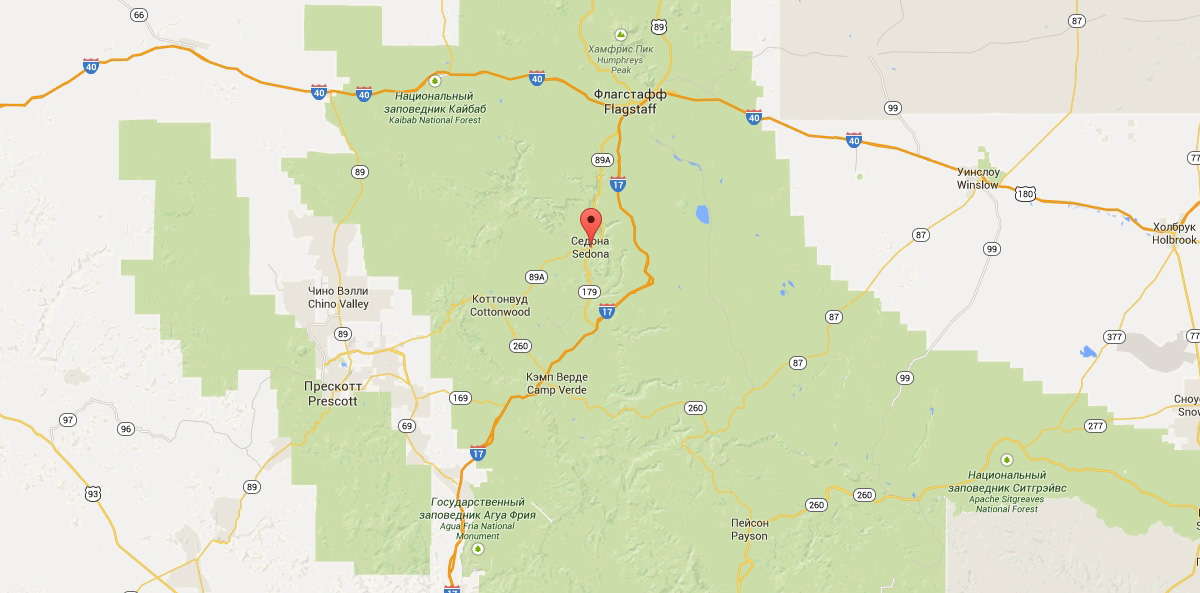
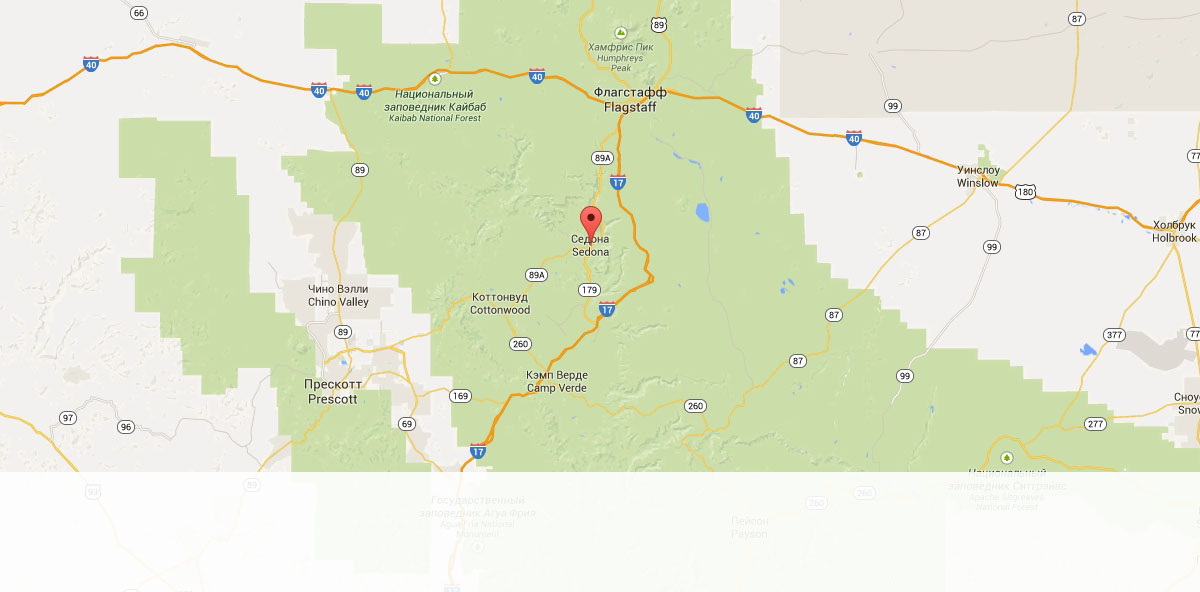
Работа над картой и фильтром.

diff --git a/css/style.css b/css/style.css
@@ -32,7 +32,14 @@ a {
 }
 
 .visually-hidden {
-	visibility: hidden;
+	position: absolute;
+	width: 1px;
+	height: 1px;
+	margin: -1px;
+	border: 0;
+	padding: 0;
+	clip: rect(0 0 0 0);
+	overflow: hidden;
 }
 
 .page-wrapper {
@@ -446,6 +453,8 @@ p.input-half-wrap {
 .hotel-filter-list,
 .hotels-list {
 	list-style: none;
+	margin: 0;
+	padding: 0;
 }
 
 .hotel-item-rating {
@@ -501,7 +510,7 @@ h2.visually-hidden {
 .hotel-filter-form {
 	display: flex;
 	flex-wrap: wrap;
-	padding: 29px 72px 4px;
+	padding: 27px 72px 8px;
 	text-align: left;
 }
 
@@ -512,20 +521,18 @@ padding: 0;
 width: 250px;
 }
 
+.hotel-filter-group input {
+	display: none;
+}
+
 .hotel-filter-title {
 font-size: 16px;
 line-height: 21px;
 color: #ffffff;
-margin: 0;
+margin-bottom: -1px;
 padding: 0;
 font-weight: 700;
-}
 
-.hotel-filter-cost {
-	margin: 0;
-	padding: 0;
-	border: 0;
-	margin-left: auto;
 }
 
 label {
@@ -537,8 +544,122 @@ label {
 	margin: 26px 0;
 }
 
-input {
-	display: none;
+/*----- Стоимость в сутки: -----*/
+.hotel-filter-cost {
+	padding: 0;
+	margin-left: auto;
+	border: 0;	
+	width: 330px;
+	
+	color: #ffffff;
+	text-transform: uppercase;
+}
+
+.filter-cost-title {
+	margin-bottom: 12px;
+	font-weight: 600;
+	font-size: 16px;
+    line-height: 21px;
+}
+
+.prise-controls {
+	position: relative;
+	height: 35px;
+	margin-bottom: 20px;
+	border: 2px solid #ffffff;
+	border-radius: 2px;
+	font-size: 0;
+}
+
+.prise-controls label {
+	display: inline-block;
+	font-size: 14px;
+	line-height: 38px;
+	vertical-align: top;
+	padding: 0;
+	margin: 0;
+	cursor: pointer;
+}
+
+.prise-controls .min-prise,
+.prise-controls .max-prise {	
+	padding: 0 4px 0 68px;
+}
+
+.prise-controls input {
+	width: 50px;
+	margin: 0;
+	color: inherit;
+	font: inherit;
+	background: none;
+	border: none;
+}
+
+.prise-controls::after {
+	content: "";
+	position: absolute;
+	top: 50%;
+	left: 50%;
+	width: 3px;
+	height: 22px;
+	background: #ffffff;
+	transform: translate(-50%, -50%);
+}
+
+.range-control {
+	position: relative;
+	margin-bottom: 32px;
+}
+
+.scale {
+	height: 2px;
+	background: rgba(255, 255, 255, 0.3);
+}
+
+.bar {
+	width: 80%;
+	height: 2px;
+	background: #ffffff;
+}
+
+.range-toggle {
+	position: absolute;
+	top: -7px;
+	width: 4px;
+	height: 4px;
+	background: #ababab;
+	border: 8px solid #ffffff;
+	border-radius: 50%;
+	box-shadow: 0 2px 1px 0 rgba(0, 1, 1, 0.2);
+	cursor: pointer;
+}
+
+.range-toggle:hover {
+	background: #1c4f80;
+}
+
+.range-toggle-min {
+	left: 0;
+}
+
+.range-toggle-max {
+	left: 80%;
+}
+
+.hotel-filter-btn {
+	display: block;
+	margin: 0 auto;
+	padding: 6px 35px;
+
+	font-size: 14px;
+	line-height: 20px;
+	color: #ffffff;
+	text-transform: uppercase;
+
+	background: transparent;
+	border: 2px solid #ffffff;
+	border-radius: 2px;
+	cursor: pointer;
 }
 
 /*----- Сортировка -----*/
@@ -603,28 +724,28 @@ input {
 /*-----список отелей-----*/
 .hotels-list {
 	margin: 0;
-	padding: 14px 40px;
+	padding: 0px;
 	list-style: none;
 }
 
 .hotels-item {
 	display: flex;
 	flex-wrap: wrap;
-	padding: 17px 33px;
+	padding: 22px 72px;
 	border-bottom: 1px solid red;
 }
 
 .hotels-item-image {
-	margin-right: 30px;
-	padding: 5px;
+	padding-top: 7px;
 }
 
 .hotels-item-info {
 	text-align: left;
-	margin-left: 20px;
+	margin: 0 30px;
 	display: flex;
 	flex-wrap: wrap;
 	width: 239px;
+	align-items: center;
 }
 
 .hotels-item-title {

diff --git a/hotels.html b/hotels.html
@@ -60,8 +60,18 @@
 							</ul>					
 						</fieldset>
 						<fieldset class="hotel-filter-cost">
-							<legend for="slider" class="hotel-filter-title">Стоимость в сутки (р):</legend>			
-							<input type="range" min="0" max="50" name="range" value="0" step="2" id="slider">
+							<legend for="slider" class="filter-cost-title">Стоимость в сутки (р):</legend>
+							<div class="prise-controls">
+								<label class="min-prise">от <input type="text" name="min-prise" value="0"></label>
+								<label class="max-prise">до <input type="text" name="max-prise" value="3000"></label>
+							</div>
+							<div class="range-control">
+								<div class="scale">
+          							<div class="bar"></div>
+       							</div>
+       							<div class="range-toggle range-toggle-min"></div>
+                                <div class="range-toggle range-toggle-max"></div>
+							</div>							
 							<button class="hotel-filter-btn" type="submit">Показать</button>
 						</fieldset>									
 					</form>

diff --git a/index.html b/index.html
@@ -115,7 +115,7 @@
 	      		</form>
       	    </div>
 			<div class="map">
-				<img src="img/map-index.jpg" width="1200" height="593" alt="Карта Седоны">
+				<img src="img/map-index.jpg" width="1200" height="592" alt="Карта Седоны">
 			</div>
 			<div class="footer-wrapper">
 				<p class="hashtag">#visitsedona</p>
